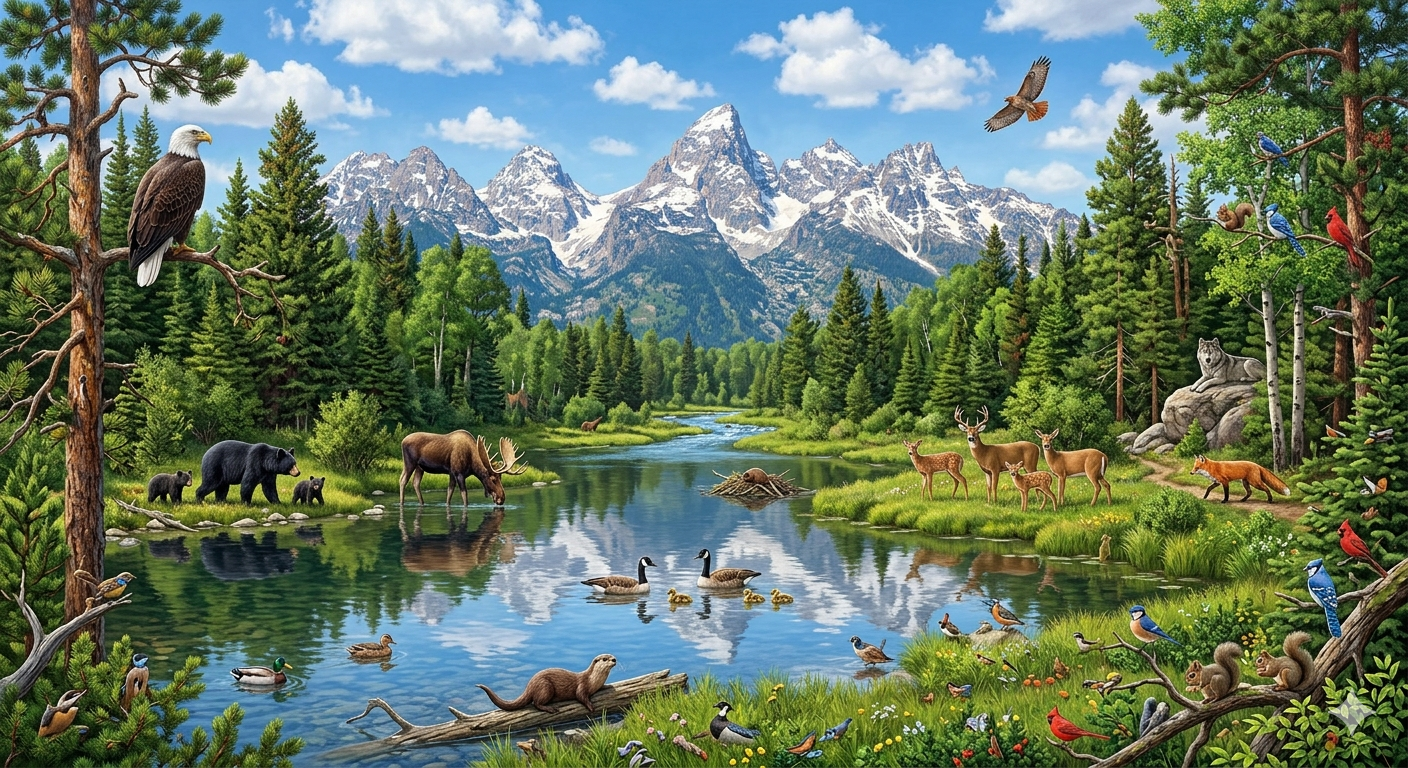
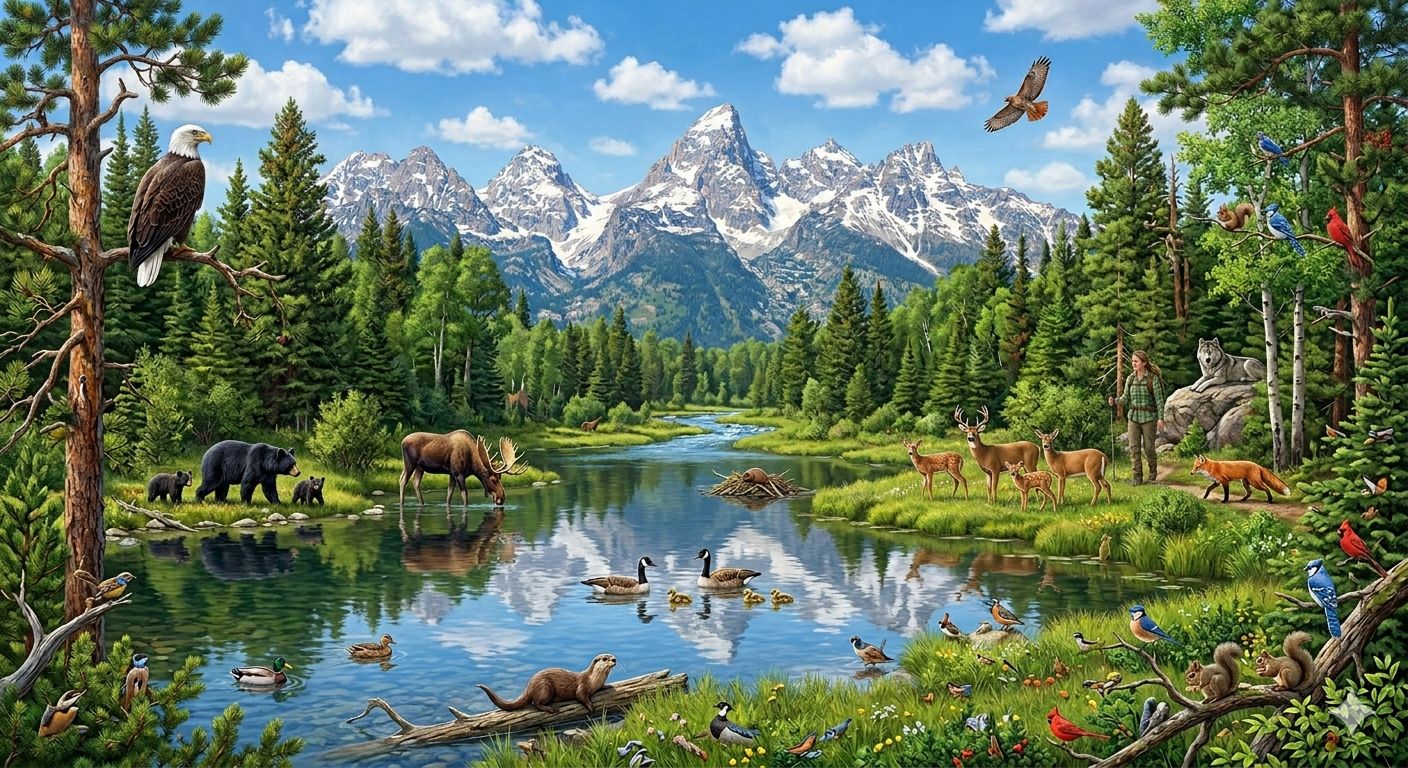
images

diff --git a/src/app/components/EcosystemScreen.tsx b/src/app/components/EcosystemScreen.tsx
@@ -1,13 +1,52 @@
 import { useNavigate } from 'react-router';
 import { motion } from 'motion/react';
-import { Activity, Wind } from 'lucide-react';
+import { Wind } from 'lucide-react';
 
-const NAV_ITEMS = [
-  { label: 'Memory', emoji: '🌳', path: '/memory', left: '8%', top: '38%', color: '#4ade80' },
-  { label: 'Focus', emoji: '🌊', path: '/focus', left: '52%', top: '67%', color: '#38bdf8' },
-  { label: 'Reaction', emoji: '🐾', path: '/reaction', left: '72%', top: '50%', color: '#fb923c' },
-  { label: 'Cognitive\nLoad', emoji: '🪨', path: '/cognitive', left: '10%', top: '70%', color: '#a78bfa' },
-];
+function HotspotButton({ label, onClick, style, icon }: {
+  label: string;
+  onClick: () => void;
+  style: React.CSSProperties;
+  icon?: string;
+}) {
+  return (
+    <button
+      onClick={onClick}
+      className="absolute flex flex-col items-center active:scale-95 transition-transform"
+      style={{ background: 'none', border: 'none', padding: 0, cursor: 'pointer', ...style }}
+    >
+      <div style={{
+        width: 80, height: 80,
+        background: 'rgba(255,255,255,0.1)', backdropFilter: 'blur(8px)',
+        // borderRadius: 14,
+        // border: '1.5px solid rgba(255,255,255,0.3)',
+        display: 'flex', alignItems: 'center', justifyContent: 'center',
+        overflow: 'visible',
+      }}>
+        {icon && (
+          <img
+            src={icon}
+            alt={label}
+            style={{ width: '100%', height: '100%', objectFit: 'contain' }}
+          />
+        )}
+      </div>
+      <span style={{
+        marginTop: 5,
+        background: 'rgba(0,0,0,0.52)',
+        backdropFilter: 'blur(6px)',
+        color: '#fff',
+        fontSize: '11px',
+        fontWeight: 600,
+        padding: '2px 10px',
+        borderRadius: 20,
+        letterSpacing: '0.05em',
+        whiteSpace: 'nowrap',
+      }}>
+        {label}
+      </span>
+    </button>
+  );
+}
 
 export function EcosystemScreen() {
   const navigate = useNavigate();
@@ -30,165 +69,58 @@ export function EcosystemScreen() {
         }}
       />
 
-      {/* ——— INTERACTIVE OVERLAY ELEMENTS ——— */}
-
-      {/* Memory (Trees — left) */}
-      <button
+      {/* Memory — over the left tree cluster */}
+      <HotspotButton
+        label="Memory"
         onClick={() => navigate('/memory')}
-        className="absolute flex flex-col items-center gap-1 active:scale-95 transition-transform"
-        style={{ left: '6%', top: '34%' }}
-      >
-        <div
-          style={{
-            width: 80, height: 80, borderRadius: 20, display: 'flex', alignItems: 'center',
-            justifyContent: 'center', fontSize: 36,
-            background: 'rgba(10,30,16,0.55)', backdropFilter: 'blur(8px)',
-            border: '1.5px solid rgba(74,222,128,0.3)',
-            boxShadow: '0 0 20px rgba(74,222,128,0.12)',
-          }}
-        >
-          🌳
-        </div>
-        <span
-          style={{
-            background: 'rgba(74,222,128,0.18)', color: '#86efac',
-            fontSize: '11px', padding: '2px 10px', borderRadius: 20,
-            border: '1px solid rgba(74,222,128,0.25)', backdropFilter: 'blur(6px)',
-          }}
-        >
-          Memory
-        </span>
-      </button>
+        style={{ left: '7%', top: '32%' }}
+        icon="/images/plant.png"
+      />
 
-      {/* Focus (River — center) */}
-      <button
-        onClick={() => navigate('/focus')}
-        className="absolute flex flex-col items-center gap-1 active:scale-95 transition-transform"
-        style={{ left: '50%', top: '62%', transform: 'translateX(-50%)' }}
-      >
-        <div
-          style={{
-            width: 80, height: 80, borderRadius: 20, display: 'flex', alignItems: 'center',
-            justifyContent: 'center', fontSize: 36,
-            background: 'rgba(10,20,30,0.55)', backdropFilter: 'blur(8px)',
-            border: '1.5px solid rgba(56,189,248,0.3)',
-            boxShadow: '0 0 20px rgba(56,189,248,0.12)',
-          }}
-        >
-          🌊
-        </div>
-        <span
-          style={{
-            background: 'rgba(56,189,248,0.18)', color: '#7dd3fc',
-            fontSize: '11px', padding: '2px 10px', borderRadius: 20,
-            border: '1px solid rgba(56,189,248,0.25)', backdropFilter: 'blur(6px)',
-          }}
-        >
-          Focus
-        </span>
-      </button>
-
-      {/* Reaction (Animal — right) */}
-      <button
+      {/* Reaction — over the moose drinking at the water's edge */}
+      <HotspotButton
+        label="Reaction"
         onClick={() => navigate('/reaction')}
-        className="absolute flex flex-col items-center gap-1 active:scale-95 transition-transform"
-        style={{ right: '6%', top: '45%' }}
-      >
-        <div
-          style={{
-            width: 80, height: 80, borderRadius: 20, display: 'flex', alignItems: 'center',
-            justifyContent: 'center', fontSize: 36,
-            background: 'rgba(30,20,10,0.55)', backdropFilter: 'blur(8px)',
-            border: '1.5px solid rgba(251,146,60,0.3)',
-            boxShadow: '0 0 20px rgba(251,146,60,0.1)',
-          }}
-        >
-          🐾
-        </div>
-        <span
-          style={{
-            background: 'rgba(251,146,60,0.18)', color: '#fdba74',
-            fontSize: '11px', padding: '2px 10px', borderRadius: 20,
-            border: '1px solid rgba(251,146,60,0.25)', backdropFilter: 'blur(6px)',
-          }}
-        >
-          Reaction
-        </span>
-      </button>
+        style={{ left: '30%', top: '52%' }}
+        icon="/images/deer.png"
+      />
 
-      {/* Cognitive Load (Rocks — bottom left) */}
-      <button
-        onClick={() => navigate('/cognitive')}
-        className="absolute flex flex-col items-center gap-1 active:scale-95 transition-transform"
-        style={{ left: '5%', top: '67%' }}
-      >
-        <div
-          style={{
-            width: 80, height: 80, borderRadius: 20, display: 'flex', alignItems: 'center',
-            justifyContent: 'center', fontSize: 36,
-            background: 'rgba(20,15,30,0.55)', backdropFilter: 'blur(8px)',
-            border: '1.5px solid rgba(167,139,250,0.3)',
-            boxShadow: '0 0 20px rgba(167,139,250,0.1)',
-          }}
-        >
-          🪨
-        </div>
-        <span
-          style={{
-            background: 'rgba(167,139,250,0.18)', color: '#c4b5fd',
-            fontSize: '11px', padding: '2px 10px', borderRadius: 20,
-            border: '1px solid rgba(167,139,250,0.25)', backdropFilter: 'blur(6px)',
-            whiteSpace: 'nowrap',
-          }}
-        >
-          Cog. Load
-        </span>
-      </button>
+      {/* Focus — over the river / lake */}
+      <HotspotButton
+        label="Focus"
+        onClick={() => navigate('/focus')}
+        style={{ left: '50%', top: '64%', transform: 'translateX(-50%)' }}
+        icon="/images/stone.png"
+      />
 
-      {/* Your Health (Human — center) */}
-      <button
+      {/* Your Health — over the human figure (center clearing) */}
+      <HotspotButton
+        label="Your Health"
         onClick={() => navigate('/dashboard')}
-        className="absolute flex flex-col items-center gap-1 active:scale-95 transition-transform"
         style={{ left: '50%', top: '44%', transform: 'translateX(-50%)' }}
-      >
-        <div
-          style={{
-            width: 72, height: 72, borderRadius: '50%', display: 'flex', alignItems: 'center',
-            justifyContent: 'center',
-            background: 'rgba(14,165,233,0.12)', backdropFilter: 'blur(8px)',
-            border: '1.5px solid rgba(56,189,248,0.4)',
-            boxShadow: '0 0 24px rgba(56,189,248,0.2)',
-          }}
-        >
-          <Activity size={28} color="#38bdf8" />
-        </div>
-        <span
-          style={{
-            background: 'rgba(56,189,248,0.18)', color: '#7dd3fc',
-            fontSize: '11px', padding: '2px 10px', borderRadius: 20,
-            border: '1px solid rgba(56,189,248,0.3)', backdropFilter: 'blur(6px)',
-          }}
-        >
-          Your Health
-        </span>
-      </button>
+        icon="/images/dashboard.png"
+      />
+
+      {/* Cognitive Load — over the right-side rocks / boulder area */}
+      <HotspotButton
+        label="Cog. Load"
+        onClick={() => navigate('/cognitive')}
+        style={{ right: '7%', top: '52%' }}
+        icon="/images/bird.png"
+      />
 
       {/* Top header */}
       <div className="absolute top-0 left-0 right-0 flex items-center justify-between px-5 pt-5 z-20">
-        <div>
-          <p style={{ color: '#4ade80', fontSize: '11px', letterSpacing: '0.08em', margin: 0 }}>ECOSYSTEM</p>
-          <h2 style={{ color: '#d1fae5', fontSize: '18px', margin: 0, fontWeight: 400 }}>Your Environment</h2>
-        </div>
         <button
           onClick={() => navigate('/meditation')}
           className="flex items-center gap-2 px-3 py-2.5 rounded-2xl active:scale-95 transition-transform"
           style={{
-            background: 'rgba(7,24,18,0.7)', backdropFilter: 'blur(10px)',
-            border: '1px solid rgba(74,222,128,0.2)',
+            background: 'rgba(0,0,0,0.4)', backdropFilter: 'blur(10px)',
+            border: '1px solid rgba(255,255,255,0.2)',
           }}
         >
-          <Wind size={16} color="#4ade80" />
-          <span style={{ color: '#86efac', fontSize: '12px' }}>Breathe</span>
+          <Wind size={16} color="#fff" />
+          <span style={{ color: '#fff', fontSize: '12px' }}>Breathe</span>
         </button>
       </div>
 
@@ -196,23 +128,15 @@ export function EcosystemScreen() {
       <div
         className="absolute bottom-6 left-1/2 -translate-x-1/2 flex items-center gap-2 px-5 py-2.5 rounded-2xl"
         style={{
-          background: 'rgba(6,14,10,0.75)', backdropFilter: 'blur(12px)',
-          border: '1px solid rgba(74,222,128,0.15)',
+          background: 'rgba(0,0,0,0.45)', backdropFilter: 'blur(12px)',
+          border: '1px solid rgba(255,255,255,0.15)',
         }}
       >
         <div style={{ width: 7, height: 7, borderRadius: '50%', background: '#4ade80', boxShadow: '0 0 8px #4ade80' }} />
-        <span style={{ color: '#86efac', fontSize: '12px', letterSpacing: '0.05em' }}>
+        <span style={{ color: '#fff', fontSize: '12px', letterSpacing: '0.05em' }}>
           Day 47 · Tap an element to begin
         </span>
       </div>
-
-      {/* Ambient light animation styles */}
-      <style>{`
-        @keyframes ecosystemGlow {
-          0%, 100% { opacity: 0.55; }
-          50% { opacity: 0.8; }
-        }
-      `}</style>
     </motion.div>
   );
 }
